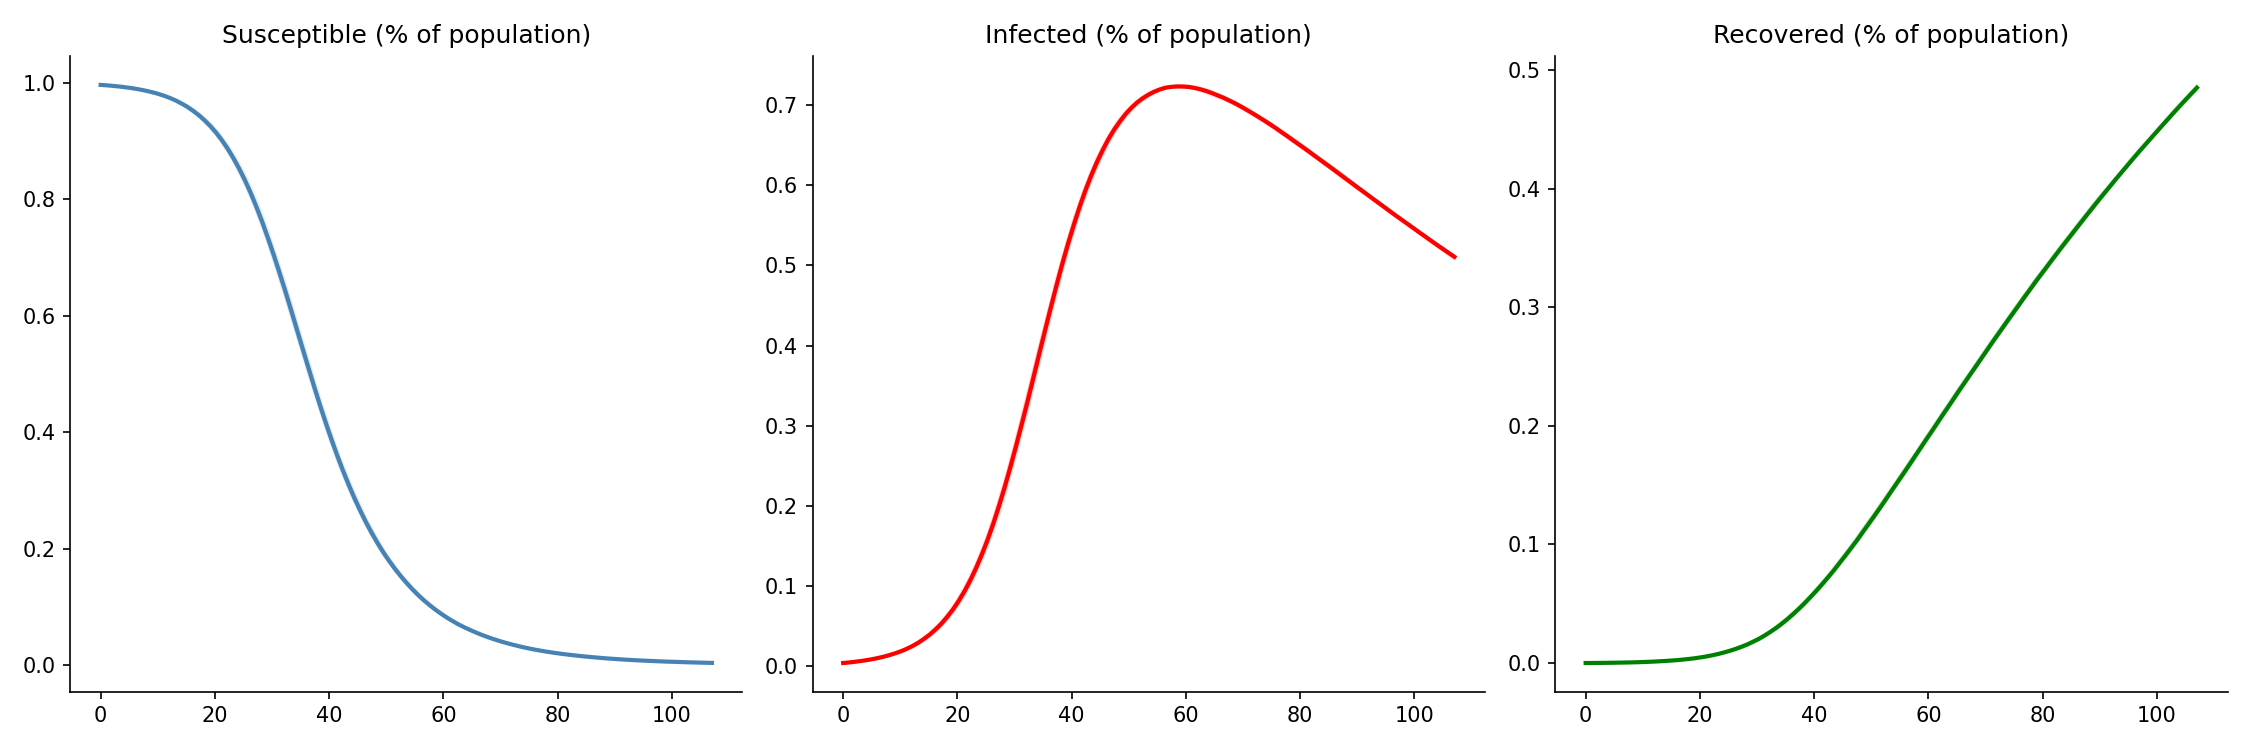
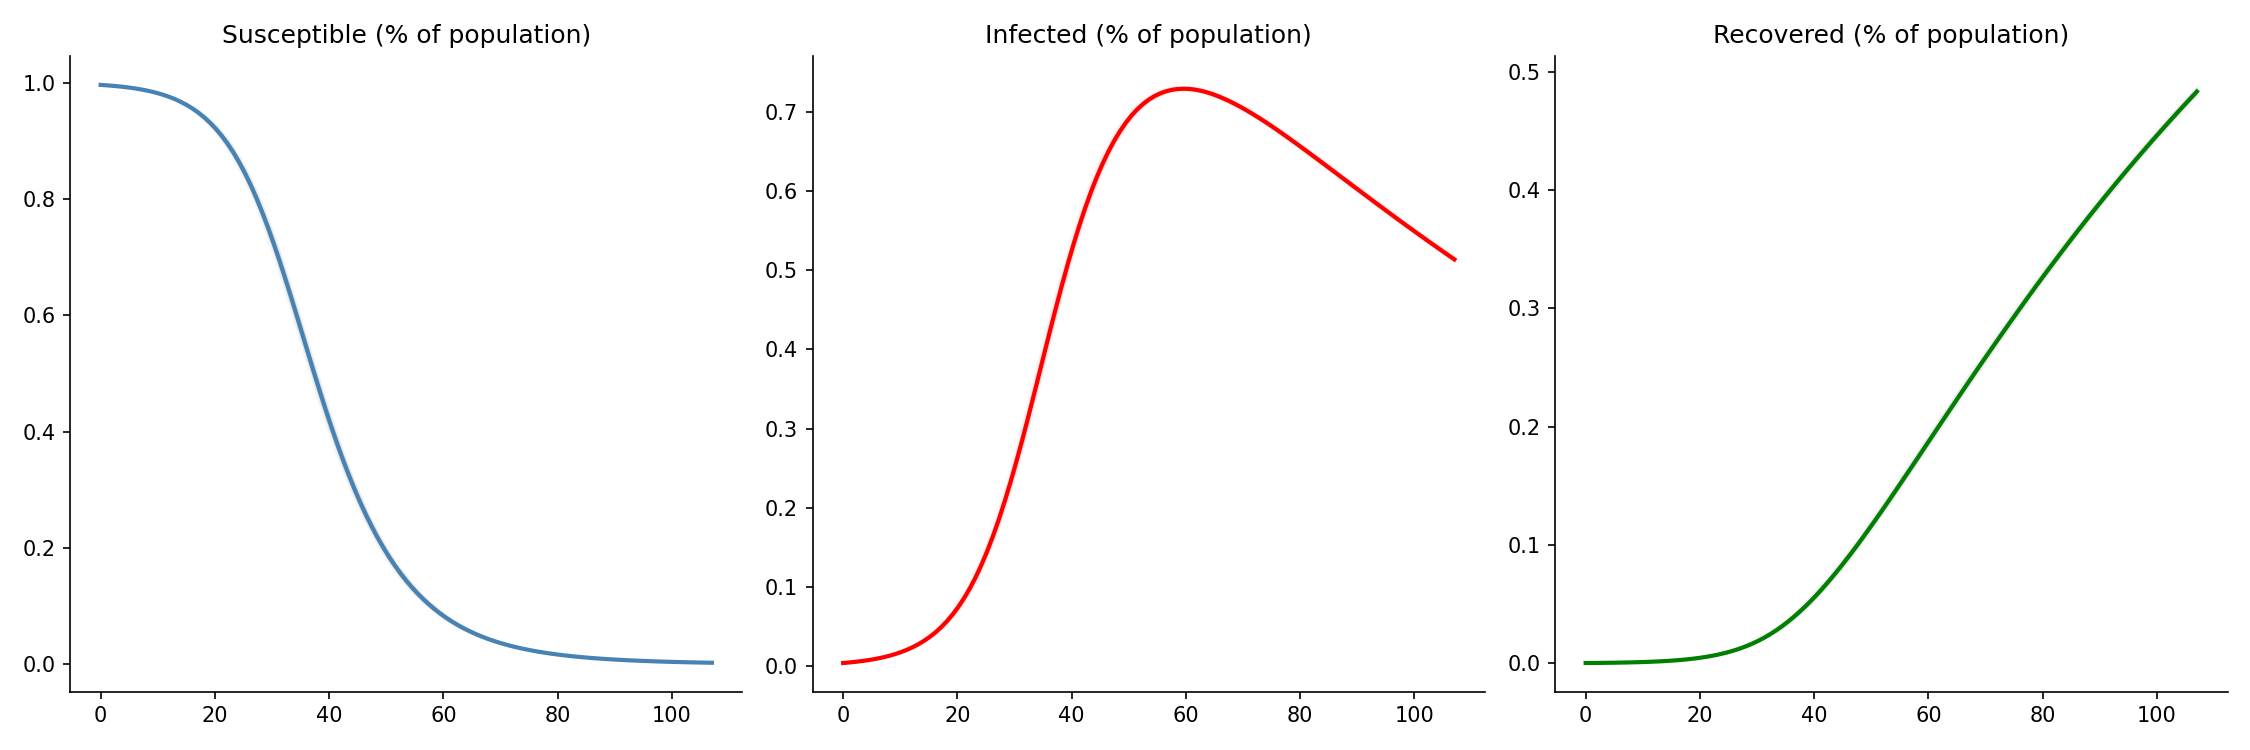
adding some plots

diff --git a/co_evolution_modified.py b/co_evolution_modified.py
@@ -9,6 +9,8 @@ from sim_plot import (
     ridge_plot_ensemble_hist,
 )
 import sys
+import log_msg as log
+import os
 
 # !/usr/bin/env python3
 # -*- coding: utf-8 -*-
@@ -238,13 +240,15 @@ def main():
     initial_opinion = opinion_sampler(opinion_data[0], NUM_AGENTS)
 
 
-    #params = ( (-3.575),) #sigmoid
+    #params = ( (-1 * 10 ** (-3.60207276)),) #sigmoid
     #params = (-1.26e-7, 1.845e-3, 5.88e-2) #sigmoid old
-    #params = (1.15437545,0.66582349) # double well
-    #params = (-7.5855335,-2.82298756,-1.19457985) # sigmoid
-    
-    params = (1.08303846,3.92245939) # polynomial
-    #params = (-0.64482276,-0.08968004,0.1181478,.039301499) #gaussian
+    #params = ((-1 * 10**(-1.77993613)),(-1 * 10 **(-4.71933849)))
+    params = (1.26499219,0.32200403) #double well
+    #params = (-1*10**(-1.6945262),-1*10**(-0.6466671))
+    #params = (0.05330867,0.9272398) # polynomial
+    #params = (-1*10**(-0.03109129),-1*10**(-2.53513431)) #polynomial
+    #params = (0.42394705,0.51700104,0.31148605,0.32108843) #gaussian
+    #params = (-1*10**(0.53202058),-1*10**(3.68437549),-1*10**(1.54035965),-1*10**(0.17475442)) #gaussian
     print(
         "Simulation parameters:\n",
         f"Number of agents: {NUM_AGENTS}\n",
@@ -267,12 +271,18 @@ def main():
     # )
     # model.algo()
 
-    num_simulations = 10
+    num_simulations = 100000
     multiple_infection_histories = []
     multiple_infection_num_histories = []
     multiple_opinion_histories = []
+    #choice = "polynomial"
+    choice = "double_well"
+    if not os.path.exists(f"plots/{choice}_V2"):
+        os.mkdir(f"plots/{choice}_V2")
 
     for _ in range(num_simulations):
+        if _ % 10 == 0:
+            log.logger.info(f"Simulation num: {_}")
         model = opinion_dynamics(
             num_grid_points=sim_length,
             max_t=sim_length,
@@ -282,7 +292,7 @@ def main():
             interaction_distance=0,
             noise_strength=0,
             stochiomatric_vectors=np.array([[-1, 1, 0], [0, -1, 1]]),
-            grad_V="polynomial",
+            grad_V=choice,
             grad_V_params=params,
             inf_rate_max=0.32,
             inf_rate_min=0.1,
@@ -293,7 +303,7 @@ def main():
         multiple_opinion_histories.append(model.opinion_history()[opinion_idx].copy())
 
     ridge_plot_ensemble_hist(
-        multiple_opinion_histories, opinion_data, opinion_idx, spacing=0.5
+        multiple_opinion_histories, opinion_data,  opinion_idx,choice, spacing=0.5, 
     )
 
     # Plotting susceptible, infected, recovered history and daily new infections vs data
@@ -304,6 +314,7 @@ def main():
         multiple_infection_num_histories,
         infection_data,
         infection_idx,
+        choice
     )
 
 

diff --git a/sim_plot.py b/sim_plot.py
@@ -5,7 +5,9 @@ import joypy
 from helpers import opinion_sampler, HIST_BINS
 
 
-def opinion_joy_plot(opinion_data, opinion_simulation, opinion_idx):
+
+
+def opinion_joy_plot(opinion_data, opinion_simulation, opinion_idx, choice):
     sim_records = []
     real_records = []
     for i in opinion_idx:
@@ -20,11 +22,11 @@ def opinion_joy_plot(opinion_data, opinion_simulation, opinion_idx):
         )
     df1 = pd.concat(sim_records, axis=1)
     fig, axes = joypy.joyplot(df1, overlap=0.5, colormap=plt.cm.plasma)
-    plt.savefig("plots/other/sim_opinion_joyplot.png")
+    plt.savefig(f"plots/{choice}_V2/sim_opinion_joyplot.png")
     plt.close()
     df2 = pd.concat(real_records, axis=1)
     fig, axes = joypy.joyplot(df2, overlap=0.5, colormap=plt.cm.plasma)
-    plt.savefig("plots/other/real_opinion_joyplot.png")
+    plt.savefig(f"plots/{choice}_V2/real_opinion_joyplot.png")
     plt.close()
 
 
@@ -32,6 +34,7 @@ def ridge_plot_ensemble_hist(
     opinion_histories,
     real_opinion_data,
     opinion_idx,
+    choice,
     colormap=plt.cm.plasma,  # type: ignore[arg-type]
     spacing=0.3,
 ):
@@ -85,7 +88,7 @@ def ridge_plot_ensemble_hist(
         ax.set_title(title)
 
     plt.tight_layout()
-    plt.savefig("plots/other/opinion_ridge_hist.png", dpi=150)
+    plt.savefig(f"plots/{choice}_V2/opinion_ridge_hist.png", dpi=150)
     plt.close()
 
 
@@ -96,6 +99,7 @@ def plot_infection_histories(
     daily_infection_histories,  # list of (T,) arrays, one per trajectory
     real_daily_infections,
     real_infection_idx,
+    choice
 ):
     n = len(infection_histories)
     titles = ["Susceptible", "Infected", "Recovered"]
@@ -118,7 +122,7 @@ def plot_infection_histories(
         ax.set_title(f"{titles[col]} (% of population)")
         ax.spines[["top", "right"]].set_visible(False)
     plt.tight_layout()
-    plt.savefig("plots/other/sir_history.png", dpi=150)
+    plt.savefig(f"plots/{choice}_V2/sir_history.png", dpi=150)
     plt.close()
 
     # Daily infections vs data
@@ -139,5 +143,5 @@ def plot_infection_histories(
     ax.legend()
     ax.spines[["top", "right"]].set_visible(False)
     plt.tight_layout()
-    plt.savefig("plots/other/daily_infections.png", dpi=150)
+    plt.savefig(f"plots/{choice}_V2/daily_infections.png", dpi=150)
     plt.close()

diff --git a/optimization.py b/optimization.py
@@ -9,7 +9,7 @@ from concurrent import futures
 from datetime import datetime
 import time
 
-NUM_WORKERS = 6
+NUM_WORKERS = 10
 NUM_PATH_PER_WORKER = 3
 NUM_AGENTS = 120000
 OPIN_BINS = (-3, -2, -1, 0, 1, 2, 3)
@@ -42,6 +42,10 @@ def run_simulation(
     if choice == "sigmoid":
         # For sigmoid coupling, parameters are on log scale
         grad_param = (-1 * 10 ** parameters[0],)  # Coefficient of sigmoid is negative
+    elif choice == "double_well" or choice == "polynomial":
+        grad_param = (-1* 10 **parameters[0], -1*10**parameters[1])
+    elif choice == 'gaussian':
+        grad_param = ( -1*10**parameters[0],-1*10**parameters[1],-1*10**parameters[2],-1*10**parameters[3],)
     else:
         grad_param = parameters
 
@@ -234,6 +238,7 @@ if __name__ == "__main__":
     # choices = ["polynomial", "sigmoid"]
     # When one of the above choices is not selected, grad_V is set to 0 and opinions stay constant
     choice = "polynomial"
+    print(choice)
 
     # Differential evolution convergence condition is determined by population energies (losses of population)
     # with formula np.std(population_energies) <= atol + tol * np.abs(np.mean(population_energies))
@@ -259,7 +264,7 @@ if __name__ == "__main__":
             disp=True,
             polish=True,
             popsize=10,
-            maxiter=20,
+            maxiter=200,
             init="latinhypercube",
             atol=1e-3,  # type: ignore[arg-type]
             tol=1e-3,
